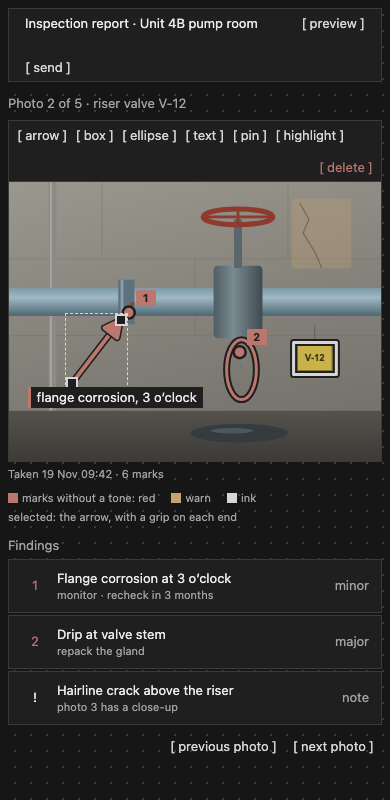
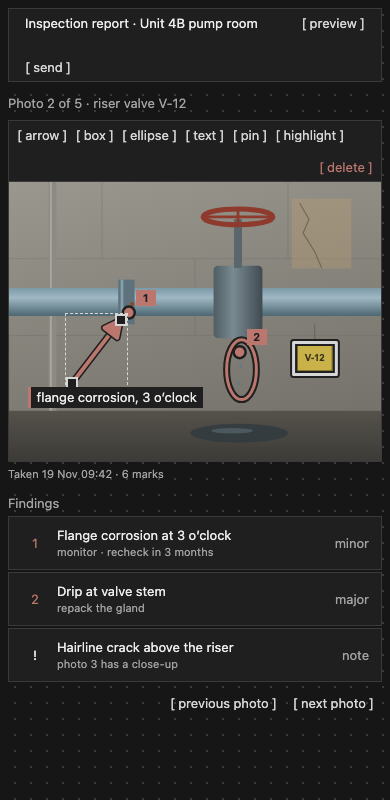
design: marks, strip explanatory prose per q2372 (#140)

Changed region(s): [[0.0, 0.5938, 0.9846, 0.9375]]

diff --git a/docs/design/marks/tower.html b/docs/design/marks/tower.html
@@ -8,9 +8,7 @@
 <li class="spi now" aria-current="step"><div class="spc" aria-label="Trace, step 2 of 3, current"><span class="spr" aria-hidden="true"><i class="spm">2</i><span class="spk"></span></span><span class="spn">Trace</span><span class="sps">range 6°C · 4 points</span></div></li>
 <li class="spi todo"><div class="spc" aria-label="Check, step 3 of 3, to do"><span class="spr" aria-hidden="true"><i class="spm">3</i><span class="spk"></span></span><span class="spn">Check</span></div></li>
 </ol></div>
-<p class="note">Zoom in, then tap along the printed curve. Each tap is a pin in the range picked under “into”. Arrow keys move a focused pin 1 % (Shift: 10 %).</p>
-<div data-b='{"type": "media", "id": "scan", "src": "scan.svg", "alt": "Maker&#39;s design curves for NC8402, scanned", "width": 1400, "height": 1000, "tools": ["pin"], "tool": "pin", "groups": ["calibration", "range 4°C", "range 6°C", "range 8°C"], "into": "range 6°C", "zoomable": true, "zoom": 2, "pan": [0.3, 0.22], "draw": {"action": "trace", "name": "draw"}, "move": {"action": "trace", "name": "move"}, "remove": {"action": "trace", "name": "remove"}, "marks": [{"id": "ca", "kind": "pin", "at": [0.27, 0.8], "text": "A", "group": "calibration", "tone": "ink"}, {"id": "cb", "kind": "pin", "at": [0.865, 0.16], "text": "B", "group": "calibration", "tone": "ink"}, {"id": "a0", "kind": "pin", "at": [0.134, 0.765], "text": "1", "group": "range 4°C", "tone": "info"}, {"id": "a1", "kind": "pin", "at": [0.253, 0.6992], "text": "2", "group": "range 4°C", "tone": "info"}, {"id": "a2", "kind": "pin", "at": [0.372, 0.6364], "text": "3", "group": "range 4°C", "tone": "info"}, {"id": "a3", "kind": "pin", "at": [0.491, 0.5646], "text": "4", "group": "range 4°C", "tone": "info"}, {"id": "a4", "kind": "pin", "at": [0.61, 0.494], "text": "5", "group": "range 4°C", "tone": "info"}, {"id": "a5", "kind": "pin", "at": [0.729, 0.4144], "text": "6", "group": "range 4°C", "tone": "info"}, {"id": "a6", "kind": "pin", "at": [0.865, 0.319], "text": "7", "group": "range 4°C", "tone": "info"}, {"id": "fa", "kind": "line", "at": [0.134, 0.763], "to": [0.865, 0.321], "path": [[0.134, 0.763], [0.1705, 0.7445], [0.2071, 0.7255], [0.2437, 0.7062], [0.2802, 0.6865], [0.3167, 0.6664], [0.3533, 0.646], [0.3898, 0.6252], [0.4264, 0.604], [0.4629, 0.5824], [0.4995, 0.5605], [0.5361, 0.5382], [0.5726, 0.5156], [0.6091, 0.4925], [0.6457, 0.4691], [0.6823, 0.4454], [0.7188, 0.4212], [0.7553, 0.3967], [0.7919, 0.3719], [0.8284, 0.3466], [0.865, 0.321]], "group": "range 4°C", "tone": "info", "fixed": true}, {"id": "b0", "kind": "pin", "at": [0.151, 0.6724], "text": "1", "group": "range 6°C", "tone": "accent"}, {"id": "b1", "kind": "pin", "at": [0.27, 0.614], "text": "2", "group": "range 6°C", "tone": "accent"}, {"id": "b2", "kind": "pin", "at": [0.389, 0.5446], "text": "3", "group": "range 6°C", "tone": "accent"}, {"id": "b3", "kind": "pin", "at": [0.508, 0.4764], "text": "4", "group": "range 6°C", "tone": "accent"}, {"id": "fb", "kind": "line", "at": [0.151, 0.6744], "to": [0.508, 0.4754], "path": [[0.151, 0.6744], [0.1808, 0.6592], [0.2105, 0.6437], [0.2402, 0.628], [0.27, 0.612], [0.2998, 0.5958], [0.3295, 0.5793], [0.3592, 0.5626], [0.389, 0.5456], [0.4187, 0.5284], [0.4485, 0.511], [0.4782, 0.4933], [0.508, 0.4754]], "group": "range 6°C", "tone": "accent", "fixed": true}, {"id": "new", "kind": "pin", "at": [0.627, 0.4022], "group": "range 6°C", "tone": "accent"}], "phase": {"id": "new", "at": "sent"}, "caption": "200% · range 6°C: 4 points kept, the 5th sending; its fitted line is dimmed until the answer"}'></div>
-<p class="legend"><span><i style="background:var(--l)"></i>calibration A, B</span><span><i style="background:var(--c)"></i>range 4°C: 7 pins and the fit</span><span><i style="background:var(--p)"></i>range 6°C: in progress</span><span>range 8°C: none yet</span></p>
+<div data-b='{"type": "media", "id": "scan", "src": "scan.svg", "alt": "Maker&#39;s design curves for NC8402, scanned", "width": 1400, "height": 1000, "tools": ["pin"], "tool": "pin", "groups": ["calibration", "range 4°C", "range 6°C", "range 8°C"], "into": "range 6°C", "zoomable": true, "zoom": 2, "pan": [0.3, 0.22], "draw": {"action": "trace", "name": "draw"}, "move": {"action": "trace", "name": "move"}, "remove": {"action": "trace", "name": "remove"}, "marks": [{"id": "ca", "kind": "pin", "at": [0.27, 0.8], "text": "A", "group": "calibration", "tone": "ink"}, {"id": "cb", "kind": "pin", "at": [0.865, 0.16], "text": "B", "group": "calibration", "tone": "ink"}, {"id": "a0", "kind": "pin", "at": [0.134, 0.765], "text": "1", "group": "range 4°C", "tone": "info"}, {"id": "a1", "kind": "pin", "at": [0.253, 0.6992], "text": "2", "group": "range 4°C", "tone": "info"}, {"id": "a2", "kind": "pin", "at": [0.372, 0.6364], "text": "3", "group": "range 4°C", "tone": "info"}, {"id": "a3", "kind": "pin", "at": [0.491, 0.5646], "text": "4", "group": "range 4°C", "tone": "info"}, {"id": "a4", "kind": "pin", "at": [0.61, 0.494], "text": "5", "group": "range 4°C", "tone": "info"}, {"id": "a5", "kind": "pin", "at": [0.729, 0.4144], "text": "6", "group": "range 4°C", "tone": "info"}, {"id": "a6", "kind": "pin", "at": [0.865, 0.319], "text": "7", "group": "range 4°C", "tone": "info"}, {"id": "fa", "kind": "line", "at": [0.134, 0.763], "to": [0.865, 0.321], "path": [[0.134, 0.763], [0.1705, 0.7445], [0.2071, 0.7255], [0.2437, 0.7062], [0.2802, 0.6865], [0.3167, 0.6664], [0.3533, 0.646], [0.3898, 0.6252], [0.4264, 0.604], [0.4629, 0.5824], [0.4995, 0.5605], [0.5361, 0.5382], [0.5726, 0.5156], [0.6091, 0.4925], [0.6457, 0.4691], [0.6823, 0.4454], [0.7188, 0.4212], [0.7553, 0.3967], [0.7919, 0.3719], [0.8284, 0.3466], [0.865, 0.321]], "group": "range 4°C", "tone": "info", "fixed": true}, {"id": "b0", "kind": "pin", "at": [0.151, 0.6724], "text": "1", "group": "range 6°C", "tone": "accent"}, {"id": "b1", "kind": "pin", "at": [0.27, 0.614], "text": "2", "group": "range 6°C", "tone": "accent"}, {"id": "b2", "kind": "pin", "at": [0.389, 0.5446], "text": "3", "group": "range 6°C", "tone": "accent"}, {"id": "b3", "kind": "pin", "at": [0.508, 0.4764], "text": "4", "group": "range 6°C", "tone": "accent"}, {"id": "fb", "kind": "line", "at": [0.151, 0.6744], "to": [0.508, 0.4754], "path": [[0.151, 0.6744], [0.1808, 0.6592], [0.2105, 0.6437], [0.2402, 0.628], [0.27, 0.612], [0.2998, 0.5958], [0.3295, 0.5793], [0.3592, 0.5626], [0.389, 0.5456], [0.4187, 0.5284], [0.4485, 0.511], [0.4782, 0.4933], [0.508, 0.4754]], "group": "range 6°C", "tone": "accent", "fixed": true}, {"id": "new", "kind": "pin", "at": [0.627, 0.4022], "group": "range 6°C", "tone": "accent"}], "phase": {"id": "new", "at": "sent"}}'></div>
 <div class="two"><div>
 <div class="sh">Calibration</div>
 <label class="fd"><span class="fl"><span class="fk">A · wet bulb °C</span></span><input value="22" inputmode="decimal"></label>

diff --git a/docs/design/marks/markup.html b/docs/design/marks/markup.html
@@ -12,7 +12,6 @@
 {"id":"m4","kind":"pin","at":[0.322,0.468],"text":"1"},
 {"id":"m5","kind":"pin","at":[0.62,0.61],"text":"2"},
 {"id":"m6","kind":"box","at":[0.765,0.575],"to":[0.88,0.69],"tone":"ink"}]}'></div>
-<p class="legend"><span><i style="background:var(--r)"></i>marks without a tone: red</span><span><i style="background:var(--a)"></i>warn</span><span><i style="background:var(--l)"></i>ink</span><span>selected: the arrow, with a grip on each end</span></p>
 <div class="sh">Findings</div>
 <div class="list">
 <div class="row tap"><span class="rsg"><i class="gl r">1</i></span><span class="rm"><span class="rt">Flange corrosion at 3 o’clock</span><span class="rs">monitor · recheck in 3 months</span></span><span class="rv">minor</span></div>

diff --git a/docs/design/marks/page.css b/docs/design/marks/page.css
@@ -13,8 +13,6 @@ h2 small{font-weight:400;font-size:var(--fs-meta)}
 .b-tabs.pin{position:fixed;left:0;right:0;bottom:0;padding:var(--s2)}
 @media (min-width:600px){.b-tabs.pin{display:none}}
 .cases>.tst,main>.tst:not(.inl){margin-bottom:var(--s2)}
-.legend{display:flex;flex-wrap:wrap;gap:var(--s1) var(--s4);color:var(--mute);font-size:var(--fs-meta);margin:var(--s1) 0}
-.legend i{display:inline-block;width:10px;height:10px;margin-right:var(--s1);vertical-align:-1px}
 .heard{color:var(--fg);font-size:var(--fs-meta);margin:var(--s1) 0 var(--s2);padding-left:var(--s2);border-left:2px solid var(--line)}
 .heard b{color:var(--mute);font-weight:400}
 .two{display:grid;grid-template-columns:minmax(0,1fr);gap:0 var(--s4)}
